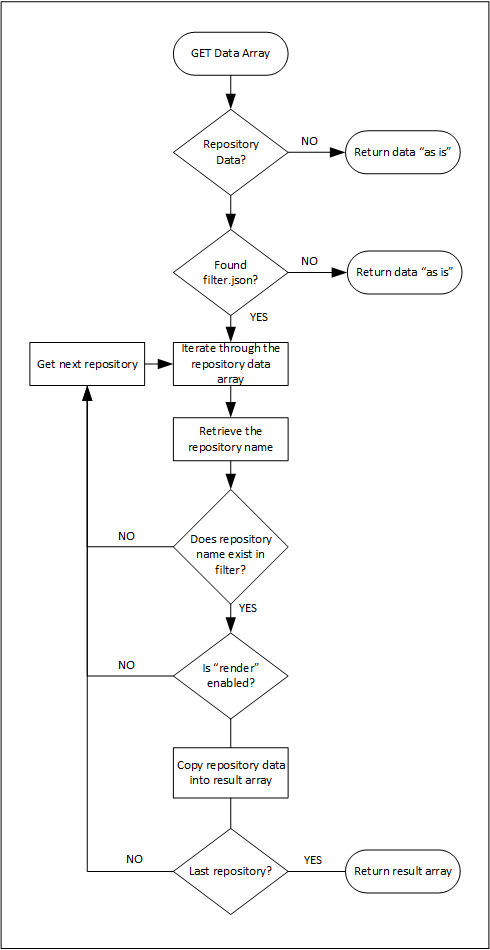
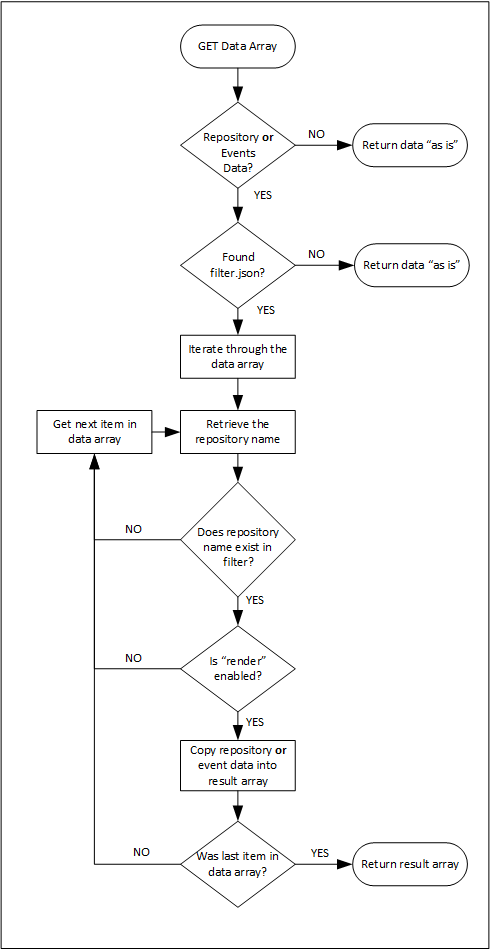
issue #27, README update

Changed region(s): [[0.0612, 0.0305, 0.949, 0.9768], [0.2449, 0.8853, 0.3061, 0.9158]]

diff --git a/README.md b/README.md
@@ -34,7 +34,7 @@ Here is an overview of the modifications I made to [jQuery-Github-Feed](<https:/
   * Can render *markdown* nearly as well as GitHub. This can be seen in issue comments that have had text bounded by back-ticks (`).
   * Improved content, added optional content to the activities entries. Added activity events.
   * Added GitHub "PullRequestEvent" data to the "Activities" tab.
-  * Added an optional repository filter. This filter will limit the repositories seen by matching them to repository names in a filter JSON file.
+  * Added an optional repository filter. This filter will limit the repositories and events seen by matching them to repository names in a filter JSON file.
   * Repository events, the original seemed incomplete to me. The repositories tab would show *updated* repositories but no other information was provided. I have changed this by using the GitHub API *directly* to obtain **repository events** from GitHub for *each repository that is rendered*.
   * Correctly interprets Markdown, anywhere GitHub allows Markdown will now be rendered correctly. I'm using  a *slightly* modified version of [ShowdownJS](<https://github.com/showdownjs/showdown>).
 
@@ -179,13 +179,13 @@ githubuser/gists
 
 Where "githubuser" is the GitHub user, as in `https://github.com/`**`githubuser`**. See `public_html/gfapi/index.php` for more details about parsing the queries.
 
-### Optional Repository Filter
+### Optional Repository and Event Filter
 
 In some situations there can be large number of public repositories for the specified GitHub user. The maximum number is 100 since the current version of "GitHub Feeds" does not do any pagination when retrieving the repository data. 
 
-And it may be possible that not all of them are desired in the rendered repository list.
+And it may be possible that not all of them are desired in the rendered repository or events list.
 
-Before the requested repository data is returned to the client it will be passed through `gfapi/filter.php:filterRepos()`. That function will look for a file named `gfapi/filter.json`, if it is found it contents will be used to determine which repositories are desired.
+Before the requested repository or event data is returned to the client it will be passed through `gfapi/filter.php:filterRepos()` or `gfapi/filter.php:filterEvents()`. Either function will look for a file named `gfapi/filter.json`, if it is found it contents will be used to determine which repositories and events are desired.
 
 `gfapi/example_filter.json`:
 
@@ -208,7 +208,7 @@ Here is how filtering works:
 <!-- NOTE: When Github renders the images it will REMOVE the "margin", and ADD "max-width:100%" -->
         <img src="./mdimg/filter.png" style="width:35%;border: 2px solid black;margin-left: 1rem;"; alt="Repository Filtering Flow Chart" title="Repository Filtering Flow Chart"/>
         <br>
-        <figcaption><strong>Repository Filtering</strong></figcaption>
+        <figcaption><strong>Repository or Event Filtering</strong></figcaption>
     </figure>
 </div>
 <br>
